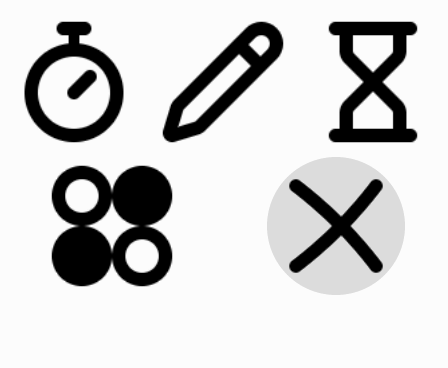
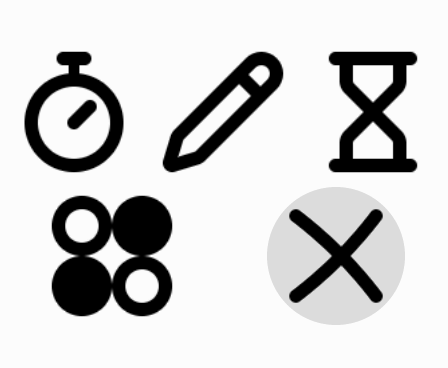
menu: the grid centres itself when the roster leaves slack, and the layout moves to one file
The owner, looking at five apps: a quarter of the panel was bare paper below
the last row, because the rows packed against the top inset and everything
left over fell to the bottom. They are now centred in the full landscape
height, which is the right span to centre in: a release above the grid
cancels exactly as a release below it does, so the leftover is one cancel
zone in two halves rather than a band at the bottom plus an accident at the
top. Five apps get 40px either side.

Clamped so centring never spends the cancel floor. Caught by arithmetic
before it shipped: at eleven and twelve apps the slack is 32px, and half of
it leaves 16 below against a floor of 22. Those rosters stay exactly where
they were.

The rest of this commit is the more useful half. Three separate files kept
hand-copied mirrors of menu.c's layout, and all three went stale the moment
the grid started moving: the preview tool reported a halo "outside its own
cell", feature-menu-hover reported corners that no longer lit, and the icon
ghost repro reported ring holes that were not where it looked. Every one of
those failures belonged to the reader, not to the firmware, and each would
have been read as a regression by whoever met it next.

So the formulas now live once, in tools/menu-layout.ts, the same shape
tools/tables-layout.ts already took for the app that grew a second and third
reader. Its header says plainly what it is: a mirror kept in sync by hand,
[…]

Changed region(s): [[0.0312, 0.0598, 0.6562, 0.8668], [0.5938, 0.0598, 0.9375, 0.8967]]

diff --git a/devices/rp2350-amoled-1.8/tools/menu-layout.ts b/devices/rp2350-amoled-1.8/tools/menu-layout.ts
@@ -1,0 +1,93 @@
+/**
+ * The menu grid's geometry, in ONE place for everything host-side.
+ *
+ * WHY THIS FILE EXISTS. menu.c owns the real layout, and until now every
+ * host-side reader kept its own hand-copied mirror of it: tools/preview-menu-
+ * grid.ts, emulator/wasm/tests/feature-menu-hover.ts and
+ * emulator/wasm/tests/repro-menu-icon-resample-ghost.ts each re-derived the
+ * same four formulas. The moment the grid started centring itself vertically
+ * (menu.c's menu_grid_y0(), added when a five-app roster left a quarter of
+ * the panel bare), all three went stale at once and reported failures that
+ * were entirely their own: a halo "outside its own cell", corners that no
+ * longer lit, ring holes that were not where they were looked for. Nothing
+ * was wrong with the firmware in any of those runs.
+ *
+ * tools/tables-layout.ts already exists for exactly this reason on the other
+ * app that grew a second and third reader. Same shape, same argument.
+ *
+ * HONEST LIMIT, stated the same way tables-layout.ts states it: this is a
+ * mirror kept in sync BY HAND against menu.c, not generated from it. What it
+ * buys is one place to fix instead of three, not a guarantee. If menu.c's
+ * formulas change, change them here too, and the previews and tests follow.
+ */
+
+export const PANEL_W = 368;
+export const PANEL_H = 448;
+export const LAND_W = PANEL_H; // 448
+export const LAND_H = PANEL_W; // 368
+
+export const MENU_CELL_FLOOR = 112;
+export const MENU_COLS_MAX = 4;
+export const MENU_TOP_INSET = 10; // gfx.h PANEL_BEZEL_MARGIN_PX
+export const MENU_CANCEL_FLOOR = 22;
+export const MENU_AVAIL_H = LAND_H - MENU_TOP_INSET - MENU_CANCEL_FLOOR; // 336
+export const MENU_ROWS_MAX = Math.floor(MENU_AVAIL_H / MENU_CELL_FLOOR); // 3
+
+export interface Rect { bx: number; by: number; bw: number; bh: number }
+
+export function menuRows(n: number): number {
+  return Math.min(Math.max(Math.ceil(n / MENU_COLS_MAX), 1), MENU_ROWS_MAX);
+}
+
+export function rowSpan(n: number, r: number): { first: number; cols: number } {
+  const rows = menuRows(n);
+  const base = Math.floor(n / rows);
+  const extra = n % rows;
+  return { first: r * base + Math.min(r, extra), cols: base + (r < extra ? 1 : 0) };
+}
+
+// menu_cell_h(): the smaller of (available height / rows) and the narrowest
+// row's own width, rounded DOWN to a multiple of 8 (decision 0001's push
+// rule), never below the floor.
+export function menuCellH(n: number): number {
+  const rows = menuRows(n);
+  const byHeight = Math.floor(MENU_AVAIL_H / rows);
+  let byWidth = LAND_W;
+  for (let r = 0; r < rows; r++) {
+    byWidth = Math.min(byWidth, Math.floor(LAND_W / rowSpan(n, r).cols));
+  }
+  return Math.max(Math.floor(Math.min(byHeight, byWidth) / 8) * 8, MENU_CELL_FLOOR);
+}
+
+// menu_grid_y0(): the block of rows is centred in the full landscape height,
+// because a release above the grid cancels exactly as a release below it
+// does - so the leftover is one cancel zone in two halves, not a band at the
+// bottom plus an accident at the top. Clamped so centring never spends the
+// cancel floor: at eleven and twelve apps the slack is 32px and half of it
+// would leave 16 below against a floor of 22, so those rosters stay at
+// MENU_TOP_INSET and do not move at all.
+export function menuGridY0(n: number): number {
+  const grid = menuRows(n) * menuCellH(n);
+  let y0 = Math.floor((LAND_H - grid) / 2);
+  const maxY0 = LAND_H - MENU_CANCEL_FLOOR - grid;
+  if (y0 > maxY0) y0 = maxY0;
+  return y0 < MENU_TOP_INSET ? MENU_TOP_INSET : y0;
+}
+
+// cell_rect_land(): contiguous and full-width within its row, the LAST cell
+// absorbing whatever LAND_W does not divide evenly, so every x belongs to
+// exactly one cell and none of it is dead space a touch can fall into.
+export function cellRect(n: number, i: number): Rect {
+  const rows = menuRows(n);
+  const cellH = menuCellH(n);
+  for (let r = 0; r < rows; r++) {
+    const { first, cols } = rowSpan(n, r);
+    if (i < first + cols) {
+      const c = i - first;
+      const w = Math.floor(LAND_W / cols);
+      const bx = c * w;
+      return { bx, by: menuGridY0(n) + r * cellH, bw: c === cols - 1 ? LAND_W - bx : w, bh: cellH };
+    }
+  }
+  throw new Error(`no cell for index ${i} at ${n} apps`);
+}

diff --git a/devices/rp2350-amoled-1.8/tools/preview-menu-grid.ts b/devices/rp2350-amoled-1.8/tools/preview-menu-grid.ts
@@ -28,64 +28,22 @@
 import { readFileSync, writeFileSync, mkdirSync } from "node:fs";
 import { deflateSync } from "node:zlib";
 import { join, dirname } from "node:path";
+import { LAND_W, LAND_H, MENU_TOP_INSET, MENU_CANCEL_FLOOR, MENU_CELL_FLOOR,
+         menuRows, rowSpan, menuCellH, menuGridY0, cellRect } from "./menu-layout.ts";
 
 const ROOT = join(import.meta.dir, "..");
 const WASM_PATH = join(ROOT, "emulator", "wasm", "dist", "emu.wasm");
 
 const PANEL_W = 368;
 const PANEL_H = 448;
-const LAND_W = PANEL_H; // 448
-const LAND_H = PANEL_W; // 368
 const APP_INDEX_MENU = -1;
 
 // menu.c's own constants. Re-derived, see the header comment - and see
 // docs/decisions/0020 for MENU_TOP_INSET/MENU_CANCEL_FLOOR/menu_cell_h(),
 // added 2026-08-17 when the cell stopped being pinned to MENU_CELL_FLOOR.
-const MENU_CELL_FLOOR = 112;
-const MENU_COLS_MAX = 4;
-const MENU_TOP_INSET = 10; // gfx.h PANEL_BEZEL_MARGIN_PX
-const MENU_CANCEL_FLOOR = 22;
-const MENU_AVAIL_H = LAND_H - MENU_TOP_INSET - MENU_CANCEL_FLOOR; // 336
-const MENU_ROWS_MAX = Math.floor(MENU_AVAIL_H / MENU_CELL_FLOOR); // 3
-
-function menuRows(n: number): number {
-  return Math.min(Math.max(Math.ceil(n / MENU_COLS_MAX), 1), MENU_ROWS_MAX);
-}
-function rowSpan(n: number, r: number): { first: number; cols: number } {
-  const rows = menuRows(n);
-  const base = Math.floor(n / rows);
-  const extra = n % rows;
-  return { first: r * base + Math.min(r, extra), cols: base + (r < extra ? 1 : 0) };
-}
-// menu_cell_h() in menu.c: the smaller of (available height / rows) and the
-// narrowest row's own width, rounded DOWN to a multiple of 8 (decision
-// 0001's push rule), never below the floor.
-function menuCellH(n: number): number {
-  const rows = menuRows(n);
-  const byHeight = Math.floor(MENU_AVAIL_H / rows);
-  let byWidth = LAND_W;
-  for (let r = 0; r < rows; r++) {
-    const { cols } = rowSpan(n, r);
-    byWidth = Math.min(byWidth, Math.floor(LAND_W / cols));
-  }
-  let h = Math.min(byHeight, byWidth);
-  h = Math.floor(h / 8) * 8;
-  return Math.max(h, MENU_CELL_FLOOR);
-}
-function cellRect(n: number, i: number): { bx: number; by: number; bw: number; bh: number } {
-  const rows = menuRows(n);
-  const cellH = menuCellH(n);
-  for (let r = 0; r < rows; r++) {
-    const { first, cols } = rowSpan(n, r);
-    if (i < first + cols) {
-      const c = i - first;
-      const w = Math.floor(LAND_W / cols);
-      const bx = c * w;
-      return { bx, by: MENU_TOP_INSET + r * cellH, bw: c === cols - 1 ? LAND_W - bx : w, bh: cellH };
-    }
-  }
-  throw new Error(`no cell for index ${i} at ${n} apps`);
-}
+// Geometry from tools/menu-layout.ts. This file kept its own copy until the
+// grid started centring itself, at which point it reported a halo "outside
+// its own cell" that was entirely its own staleness.
 
 async function loadDevice() {
   const mod = await WebAssembly.compile(readFileSync(WASM_PATH));
@@ -222,9 +180,9 @@ async function main() {
   const n = rest.n;
   const rows = menuRows(n);
   const cellH = menuCellH(n);
-  const band = LAND_H - MENU_TOP_INSET - rows * cellH;
+  const band = LAND_H - menuGridY0(n) - rows * cellH;
 
-  console.log(`${n} apps: ${rows} row(s), cell height ${cellH}px, top inset ${MENU_TOP_INSET}px, cancel band ${band}px`);
+  console.log(`${n} apps: ${rows} row(s), cell height ${cellH}px, top inset ${menuGridY0(n)}px, cancel band ${band}px`);
   for (let r = 0; r < rows; r++) {
     const { first, cols } = rowSpan(n, r);
     const { bw } = cellRect(n, first);

diff --git a/devices/rp2350-amoled-1.8/emulator/wasm/tests/feature-menu-hover.ts b/devices/rp2350-amoled-1.8/emulator/wasm/tests/feature-menu-hover.ts
@@ -66,6 +66,8 @@ import { seededRng, seedFromName } from "../../../tools/gate/touch";
 // rate by hand, which left positionJitterEnabled false - so the defect that
 // most threatens a grid of 112px cells was the one thing it did not simulate.
 import { TOUCHSIM_HARDWARE_MEASURED } from "../../src/constants";
+import { MENU_TOP_INSET, MENU_CANCEL_FLOOR, MENU_AVAIL_H, MENU_CELL_FLOOR, MENU_ROWS_MAX,
+         menuRows, rowSpan, menuCellH, menuGridY0, cellRect, type Rect } from "../../../tools/menu-layout.ts";
 
 const WASM_PATH = join(import.meta.dir, "..", "dist", "emu.wasm");
 const PANEL_W = 368;
@@ -80,12 +82,10 @@ const APP_INDEX_MENU = -1;
 // roster leaves slack.
 const ICON_W = 96;
 const ICON_H = 96;
-const MENU_CELL_FLOOR = 112;
-const MENU_COLS_MAX = 4;
-const MENU_TOP_INSET = 10; // gfx.h PANEL_BEZEL_MARGIN_PX
-const MENU_CANCEL_FLOOR = 22;
-const MENU_AVAIL_H = LAND_H - MENU_TOP_INSET - MENU_CANCEL_FLOOR; // 336
-const MENU_ROWS_MAX = Math.floor(MENU_AVAIL_H / MENU_CELL_FLOOR); // 3
+// Geometry comes from tools/menu-layout.ts, not from a fourth hand-copy of
+// menu.c's formulas. Three copies existed and all three went stale in the
+// same commit when the grid started centring itself; the failures they
+// reported were their own.
 const MENU_ICON_PAD = 8;
 const MENU_RELEASE_GRACE_MS = 300;
 const MENU_HOVER_CONFIRM_MS = 150;
@@ -219,46 +219,10 @@ type Device = Awaited<ReturnType<typeof loadDevice>>;
  * a layout menu.c no longer had and kept passing (see repro-switch-input.ts
  * for the write-up).
  */
-function menuRows(n: number): number {
-    return Math.min(Math.max(Math.ceil(n / MENU_COLS_MAX), 1), MENU_ROWS_MAX);
-}
-function rowSpan(n: number, r: number): { first: number; cols: number } {
-    const rows = menuRows(n);
-    const base = Math.floor(n / rows);
-    const extra = n % rows;
-    return { first: r * base + Math.min(r, extra), cols: base + (r < extra ? 1 : 0) };
-}
-// menu_cell_h() in menu.c (decision 0020): the smaller of (available height
-// / rows) and the narrowest row's own width, rounded DOWN to a multiple of
-// 8 (decision 0001), never below the floor.
-function menuCellH(n: number): number {
-    const rows = menuRows(n);
-    const byHeight = Math.floor(MENU_AVAIL_H / rows);
-    let byWidth = LAND_W;
-    for (let r = 0; r < rows; r++) byWidth = Math.min(byWidth, Math.floor(LAND_W / rowSpan(n, r).cols));
-    let h = Math.min(byHeight, byWidth);
-    h = Math.floor(h / 8) * 8;
-    return Math.max(h, MENU_CELL_FLOOR);
-}
 // menu_icon_size() in menu.c: the icon actually rendered in a cell of the
 // given size, never smaller than ICON_W.
 function menuIconSize(cellW: number, cellH: number): number {
     return Math.max(ICON_W, Math.min(cellW, cellH) - 2 * MENU_ICON_PAD);
-}
-type Rect = { bx: number; by: number; bw: number; bh: number };
-function cellRect(n: number, i: number): Rect {
-    const rows = menuRows(n);
-    const cellH = menuCellH(n);
-    for (let r = 0; r < rows; r++) {
-        const { first, cols } = rowSpan(n, r);
-        if (i < first + cols) {
-            const c = i - first;
-            const w = Math.floor(LAND_W / cols);
-            const bx = c * w;
-            return { bx, by: MENU_TOP_INSET + r * cellH, bw: c === cols - 1 ? LAND_W - bx : w, bh: cellH };
-        }
-    }
-    throw new Error(`no cell for index ${i} at ${n} apps`);
 }
 const cellCentre = (n: number, i: number): [number, number] => {
     const { bx, by, bw, bh } = cellRect(n, i);

diff --git a/devices/rp2350-amoled-1.8/emulator/wasm/tests/repro-menu-icon-resample-ghost.ts b/devices/rp2350-amoled-1.8/emulator/wasm/tests/repro-menu-icon-resample-ghost.ts
@@ -46,6 +46,7 @@
 //   bun run emulator/wasm/tests/repro-menu-icon-resample-ghost.ts
 import { readFileSync } from "node:fs";
 import { join } from "node:path";
+import { MENU_CELL_FLOOR, menuRows, rowSpan, menuCellH, cellRect } from "../../../tools/menu-layout.ts";
 
 const WASM_PATH = join(import.meta.dir, "..", "dist", "emu.wasm");
 const PANEL_W = 368;
@@ -59,12 +60,9 @@ const APP_INDEX_MENU = -1;
 // every other test in this directory: a claim, checked against the real
 // framebuffer below, not trusted on its own (docs/decisions/0010).
 const ICON_W = 96;
-const MENU_CELL_FLOOR = 112;
-const MENU_COLS_MAX = 4;
-const MENU_TOP_INSET = 10;
-const MENU_CANCEL_FLOOR = 22;
-const MENU_AVAIL_H = LAND_H - MENU_TOP_INSET - MENU_CANCEL_FLOOR;
-const MENU_ROWS_MAX = Math.floor(MENU_AVAIL_H / MENU_CELL_FLOOR);
+// Geometry from tools/menu-layout.ts, not a fourth hand-copy: this file was
+// one of three that reported failures of their own making when the grid
+// started centring itself.
 const MENU_ICON_PAD = 8;
 const FOUR_ICON_R = 17.5;
 const FOUR_ICON_A = 25.5;
@@ -72,40 +70,8 @@ const FOUR_ICON_B = 70.5;
 const LUCIDE_STROKE_HALF = 5.0;
 const FOUR_SLOT = 3; // g_menuAppIndex: chrono, sketch, timer, four, tables
 
-function menuRows(n: number): number {
-    return Math.min(Math.max(Math.ceil(n / MENU_COLS_MAX), 1), MENU_ROWS_MAX);
-}
-function rowSpan(n: number, r: number): { first: number; cols: number } {
-    const rows = menuRows(n);
-    const base = Math.floor(n / rows);
-    const extra = n % rows;
-    return { first: r * base + Math.min(r, extra), cols: base + (r < extra ? 1 : 0) };
-}
-function menuCellH(n: number): number {
-    const rows = menuRows(n);
-    const byHeight = Math.floor(MENU_AVAIL_H / rows);
-    let byWidth = LAND_W;
-    for (let r = 0; r < rows; r++) byWidth = Math.min(byWidth, Math.floor(LAND_W / rowSpan(n, r).cols));
-    let h = Math.min(byHeight, byWidth);
-    h = Math.floor(h / 8) * 8;
-    return Math.max(h, MENU_CELL_FLOOR);
-}
 function menuIconSize(cellW: number, cellH: number): number {
     return Math.max(ICON_W, Math.min(cellW, cellH) - 2 * MENU_ICON_PAD);
-}
-function cellRect(n: number, i: number): { bx: number; by: number; bw: number; bh: number } {
-    const rows = menuRows(n);
-    const cellH = menuCellH(n);
-    for (let r = 0; r < rows; r++) {
-        const { first, cols } = rowSpan(n, r);
-        if (i < first + cols) {
-            const c = i - first;
-            const w = Math.floor(LAND_W / cols);
-            const bx = c * w;
-            return { bx, by: MENU_TOP_INSET + r * cellH, bw: c === cols - 1 ? LAND_W - bx : w, bh: cellH };
-        }
-    }
-    throw new Error(`no cell for index ${i} at ${n} apps`);
 }
 
 let passCount = 0, failCount = 0;

diff --git a/devices/rp2350-amoled-1.8/firmware/apps/menu.c b/devices/rp2350-amoled-1.8/firmware/apps/menu.c
@@ -268,6 +268,37 @@ static int menu_cell_h(void) {
     return h;
 }
 
+// Where the block of rows starts, vertically. Not MENU_TOP_INSET flat: with
+// a small roster the rows do not fill MENU_AVAIL_H, and packing them against
+// the top left the owner looking at a quarter of the panel as bare paper
+// below the last row ("recentrer mieux le menu a 5 apps"). The slack is now
+// split evenly above and below, so a five-app menu reads as a considered
+// block on the page rather than as a grid that ran out. At a roster that
+// fills the space this returns MENU_TOP_INSET exactly, so nothing about the
+// eleven- or twelve-app layouts moves.
+// Centred in the WHOLE landscape height, not in MENU_AVAIL_H. Both are
+// defensible and the full height is the right one, because a release above
+// the grid and a release below it already do the same thing (cancel - see
+// menu_hit()'s own comment on symmetric treatment). So the strip left over
+// is one cancel zone in two halves, not a reserved band at the bottom plus
+// an accident at the top, and the icons sit where the eye expects them.
+// Floored at MENU_TOP_INSET so the bezel margin is never eaten: at eleven
+// and twelve apps the rows fill the panel, the floor binds, and those
+// layouts do not move by a pixel.
+static int menu_grid_y0(void) {
+    int grid = menu_rows() * menu_cell_h();
+    int y0 = (LAND_H - grid) / 2;
+    // Centred, but never at the cancel band's expense. MENU_CANCEL_FLOOR is
+    // a floor on the strip BELOW the grid, and a naive centring spends half
+    // of it on the top: at eleven and twelve apps the slack is 32px, so
+    // centring would leave 16 below against a floor of 22. Clamped, those
+    // rosters keep y0 = MENU_TOP_INSET and do not move at all, while five
+    // and six apps have slack to spare and centre freely.
+    int maxY0 = LAND_H - MENU_CANCEL_FLOOR - grid;
+    if (y0 > maxY0) y0 = maxY0;
+    return y0 < MENU_TOP_INSET ? MENU_TOP_INSET : y0;
+}
+
 // Cell i's landscape rectangle. Contiguous and full-width within its row
 // (no gap, no margin either side): the LAST cell of a row absorbs whatever
 // LAND_W does not divide evenly, so every x in [0, LAND_W) belongs to
@@ -292,7 +323,7 @@ static void cell_rect_land(int i, int *bx, int *by, int *bw, int *bh) {
     int w = LAND_W / cols;
     *bx = c * w;
     *bw = (c == cols - 1) ? (LAND_W - *bx) : w;
-    *by = MENU_TOP_INSET + r * cellH;
+    *by = menu_grid_y0() + r * cellH;
     *bh = cellH;
 }
 
@@ -346,9 +377,13 @@ static void panel_to_land(int px, int py, int *lx, int *ly) {
 static int menu_hit(int lx, int ly) {
     int rows = menu_rows();
     int cellH = menu_cell_h();
-    int gy = ly - MENU_TOP_INSET;
-    if (gy < 0) return -1;            // above the grid: the bezel-margin strip
-    if (gy >= rows * cellH) return -1; // below the grid: the cancel band
+    // menu_grid_y0(), NOT MENU_TOP_INSET: the grid is centred vertically in
+    // the slack a small roster leaves, and a hit test reading a different
+    // origin from cell_rect_land() would put every cell's touch target a
+    // few dozen pixels above its own picture. One function, both callers.
+    int gy = ly - menu_grid_y0();
+    if (gy < 0) return -1;            // above the grid: bezel margin plus slack
+    if (gy >= rows * cellH) return -1; // below the grid: slack plus the cancel band
     int r = gy / cellH;
     int first, cols;
     menu_row_span(r, &first, &cols);
